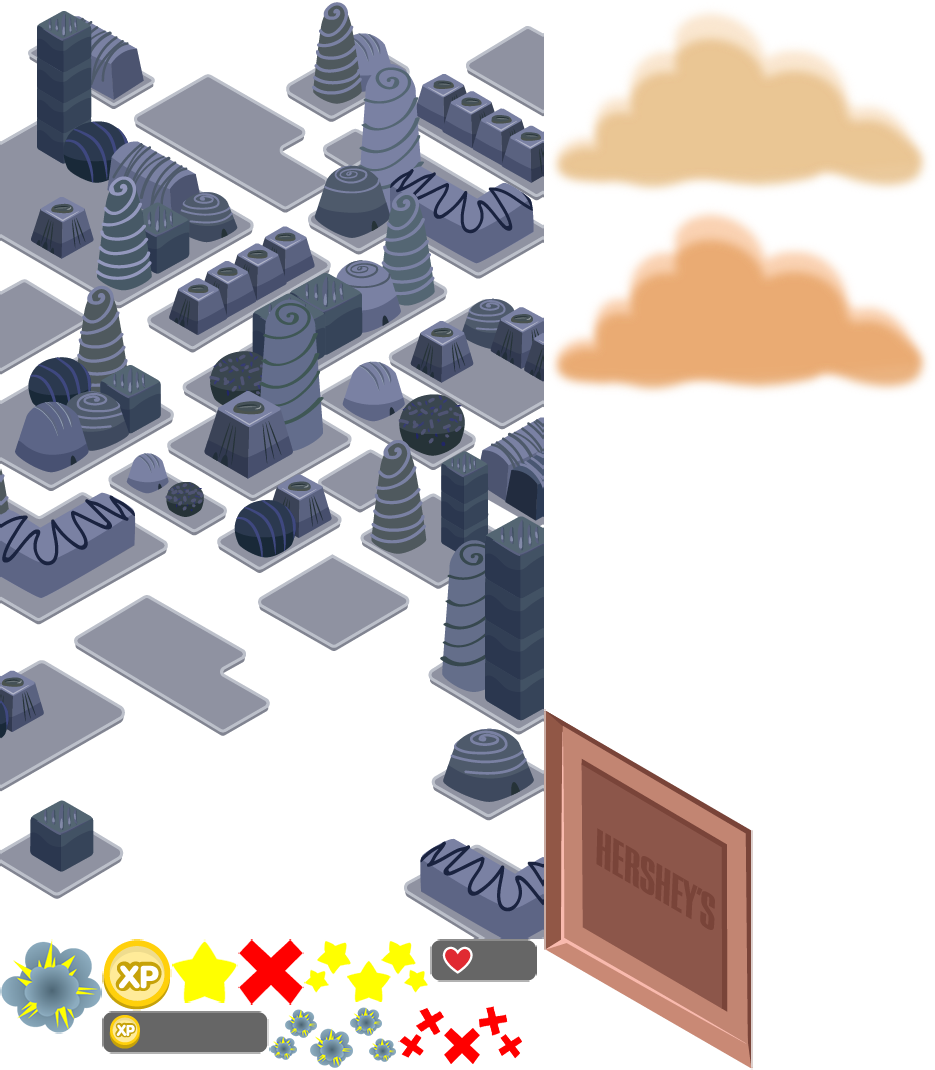
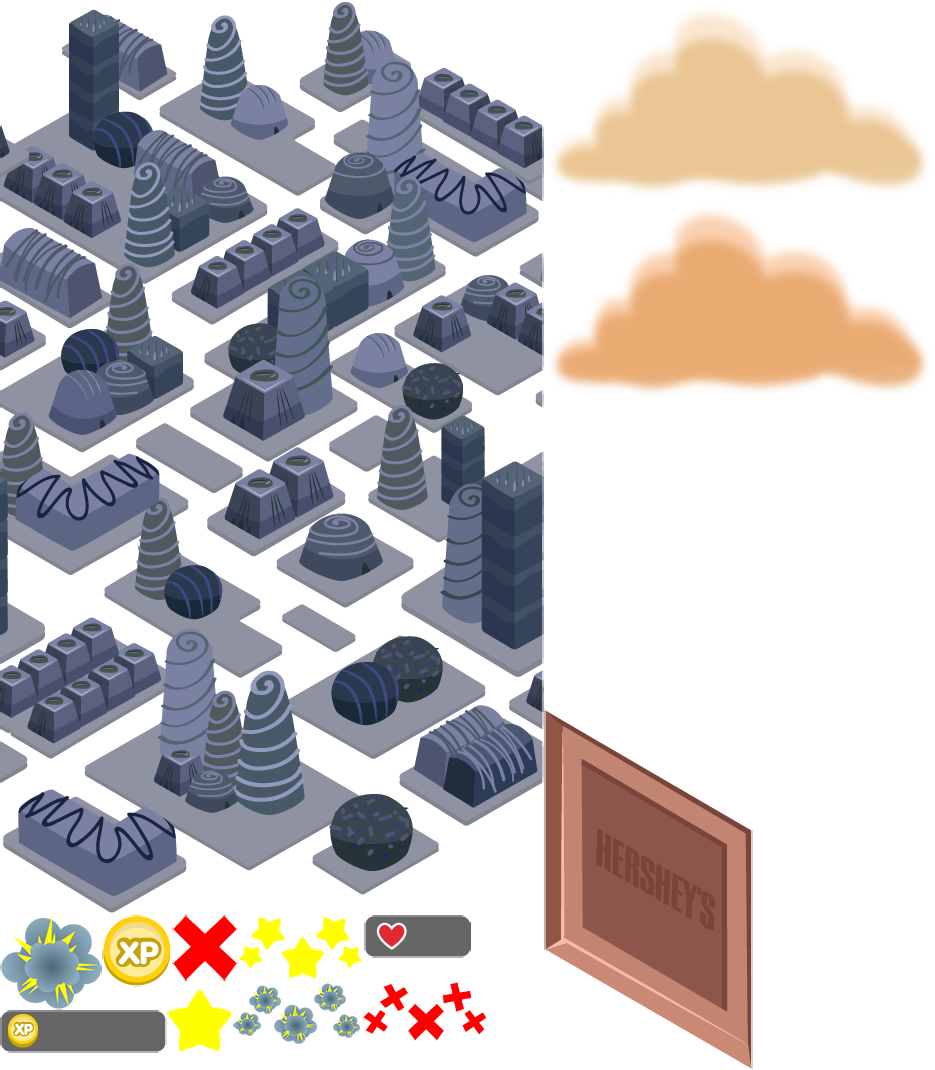
amazing, chocoPile fix

diff --git a/minigames/chocoPile/js/scenes/chocoPile.js b/minigames/chocoPile/js/scenes/chocoPile.js
@@ -10,9 +10,9 @@ var chocoPile = function(){
             },
         ],
         /*images: [
-            {   name:"player",
-                file: "images/skiZag/reloj.png"},
-        ],*/
+            {   name:"city",
+                file: "images/chocoPile/patron ciudad.png"},
+        ]*/
         sounds: [
             {   name: "magic",
                 file: soundsPath + "magic.mp3"},
@@ -909,8 +909,8 @@ var chocoPile = function(){
 
      function moveBackground(vel){
         for(var i = 0; i < backgroundImage.length; i++){
-        	//backgroundImage[i].y+=vel
-            game.add.tween(backgroundImage).to({y:backgroundImage[i].y+vel},500,Phaser.Easing.linear,true)
+        	//backgroundImage[i].y+=500
+            game.add.tween(backgroundImage[i]).to({y:backgroundImage[i].y+vel},500,Phaser.Easing.linear,true)
             if(backgroundImage[i].y > game.world.height){
             	backgroundImage[i].y -= backgroundImage[i].height*backgroundImage.length
 
@@ -1044,14 +1044,14 @@ var chocoPile = function(){
 
 
 
-      	var neblina_1=sceneGroup.create(game.world.centerX+100,game.world.height+100,'atlas.game','neblina')
+      	var neblina_1=sceneGroup.create(game.world.centerX+150,game.world.height+150,'atlas.game','neblina')
       	neblina_1.anchor.setTo(0.5,1)
-      	neblina_1.scale.setTo(1.5)
+      	neblina_1.scale.setTo(1.4)
 
 
-      	var neblina_2=sceneGroup.create(game.world.centerX-100,game.world.height+100,'atlas.game','neblina')
+      	var neblina_2=sceneGroup.create(game.world.centerX-150,game.world.height+150,'atlas.game','neblina')
       	neblina_2.anchor.setTo(0.5,1)
-      	neblina_2.scale.setTo(-1.5,1.5)
+      	neblina_2.scale.setTo(-1.4,1.4)
 
 
 
@@ -1062,9 +1062,9 @@ var chocoPile = function(){
 
     }
 
-    function render(){
+    /*function render(){
     	game.debug.text(game.time.fps || '--', 2, 14, "#00ff00"); 
-    }
+    }*/
     
     return {
         assets: assets,
@@ -1072,6 +1072,6 @@ var chocoPile = function(){
         create: create,
         preload: preload,
         update: update,
-        render:render
+        //render:render
     }
 }()
